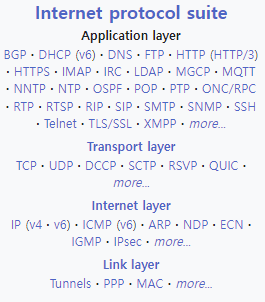
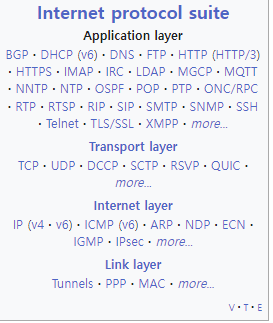
GITBOOK-21: change request with no subject merged in GitBook

diff --git a/week5/dependency-injection.md b/week5/dependency-injection.md
@@ -11,8 +11,150 @@
 
 ### 강의 정리
 
+### Factory 패턴
 
+<figure><img src="../.gitbook/assets/image.png" alt=""><figcaption></figcaption></figure>
+
+객체 지향 프로그래밍에서 팩토리는 다른 객체를 생성하기 위한 객체이다.&#x20;
+
+왜 사용하는걸까?&#x20;
+
+객체 생성 코드를 분리하여 결합도를 낮추어 유지보수하기 편리하도록 코드를 건드리는 횟수를 최소화 하기 위한 패턴이다.&#x20;
+
+결합도가 왜 낮아질까?
+
+인터페이스를 통해 구현한 객체들은 같은 인터페이스에 의존되기 때문에 코드에 유연함이 생긴다.&#x20;
+
+팩토리 패턴을 통해 변경이 일어나는 부분을 캡슐화 한다면 공통된 부분은 코드 중복을 줄이고 다형성의 이점을 가져갈 수 있다.
+
+
+
+### Spring AOP(Asepect Oriented Programming)
+
+관점 지향 프로그래밍 AOP는 어떤 로직을 기준으로 핵심적인 관점, 부가적인 관점으로 나누어 각각 모듈화 하겠다는 것이다.
+
+객체지향 프로그래밍 방식에서 실제 핵심 로직 수행 메서드를 아무리 설계를 잘해도 분리된 모듈로 작성하기 힘든 부분이 발생하는데 예를 들면 로깅,인증, 트랜잭션과 같은 공통적이고 중복되는 내용이 많다. 이는 핵심 로직을 파악하기 어렵게하고 코드 가독성을 떨어뜨리기 때문에 AOP라는 개념이 탄생하게 되었다.
+
+
+
+\| AOP 주요 개념
+
+* Aspect : 위에서 설명한 흩어진 관심사를 모듈화 한 것. 주로 부가기능을 모듈화함.
+* Target : Aspect를 적용하는 곳 (클래스, 메서드 .. )
+* Advice : 실질적으로 어떤 일을 해야할 지에 대한 것, 실질적인 부가기능을 담은 구현체
+* JointPoint : Advice가 적용될 위치, 끼어들 수 있는 지점. 메서드 진입 지점, 생성자 호출 시점, 필드에서 값을 꺼내올 때 등 다양한 시점에 적용가능
+* PointCut : JointPoint의 상세한 스펙을 정의한 것. 'A란 메서드의 진입 시점에 호출할 것'과 같이 더욱 구체적으로 Advice가 실행될 지점을 정할 수 있음
+
+&#x20;
+
+\| 스프링 AOP 특징
+
+* 프록시 패턴 기반의 AOP 구현체, 프록시 객체를 쓰는 이유는 접근 제어 및 부가기능을 추가하기 위해서임
+* 스프링 빈에만 AOP를 적용 가능
+* 모든 AOP 기능을 제공하는 것이 아닌 스프링 IoC와 연동하여 엔터프라이즈 애플리케이션에서 가장 흔한 문제(중복코드, 프록시 클래스 작성의 번거로움, 객체들 간 관계 복잡도 증가 ...)에 대한 해결책을 지원하는 것이 목적
+
+### 싱글턴 패턴
+
+## Singleton 정의 <a href="#singleton" id="singleton"></a>
+
+* 특정 클래스에서 만들 수 있는 인스턴스 수를 하나로 제한
+*   조건
+
+    * 프로그램 실행 중에 최대 하나만 있어야 함
+      * Setting, file system
+    * 전역적 접근 지점을 제공해야 함
+
+
+* 특징
+  * 객체이기 때문에 힙에 싱글톤 객체가 저장된다. 따라서 쓰레드간 공유가 가능하다
+
+## Singleton의 비공식적 정의 <a href="#singleton" id="singleton"></a>
+
+* static 사용에 대한 비판을 해결하는 패턴
+* 즉, OO에서 전역 변수 및 전역 함수를 만드는 법
+
+### Dependency Injection과 IoC
+
+* IoC는 프레임워크의 공통적인 특징으로 프로그래머가 작성한 코드가 라이브러리의 흐름 제어를 받게된 소프트웨어 디자인 패턴이다.&#x20;
+
+제어 역전은 프레임워크를 라이브러리와 다르게 만드는 핵심 부분입니다. 라이브러리는 본질적으로 호출할 수 있는 함수 세트이며 요즘에는 일반적으로 클래스로 구성됩니다. 각 호출은 일부 작업을 수행하고 클라이언트에 제어권을 반환합니다.
+
+원래 코드
+
+```
+public class ServerFacade
+{
+  public Object respondToRequest(Object pRequest)
+  {
+    if(businessLayer.validateRequest(pRequest))
+    {
+      DAO.getData(pRequest);
+      return Aspect.convertData(pRequest);
+    }
+
+    return null;
+  }
+}
+```
+
+제어 반전 코드
+
+```
+public class ServerFacade
+{
+  public Object respondToRequest(Object pRequest, DAO dao)
+  {
+    return dao.getData(pRequest);
+  }
+}
+```
+
+### DI란?
+
+DI는 Dependency Injection으로 어플리케이션 클래스에서 의존성을 제거하는 방법의 일종이다.
+
+내용은 인터페이스에만 의존하고 실제 구현을 위한 정보는   외부에서 주입받아 만든다.
+
+DI에서 dependency를 의존객체라고 보는 것은 적절치 않습니다.대신 코드 레벨에서 제거했지만, 런타임시에 가지게 해주는 의존관계 또는 의존성으로 보는 것이 타당하다는 것입니다.\
+
+
+우선 `의존성`이란 무엇인지부터 간단하게 짚고 넘어가자.
+
+> _의존대상 B가 변하면, 그것이 A에 영향을 미친다._
+>
+> **- 이일민, 토비의 스프링 3.1, 에이콘(2012), p113**
+
+```java
+public class A {
+    private B b = new B();
+}
+```
+
+➡ 생성자, Setter, 인터페이스를 통해 주입할 수 있으며 DI를 통해 객체 간 의존성을 줄여 변경이 덜 취약한 코드를 만들고 모의 객체를 주입하여 단위 테스트를 용이하게 만들 수 있다.
 
 ### 궁금한 점?
 
-1\.
+1. 싱글턴 패턴과 정적클래스의 차이가 무엇인가?
+
+\=> **싱글턴 패턴은 그래도 객체를 생성한다. (확장과 인터페이스 구현이 가능)**
+
+
+
+**싱글턴 패턴은 코드 상에서 의존 관계를 명확하게 보여준다.**
+
+싱글턴 패턴은 상태를 가지고 생성과 파괴시기를 선택할 수 있어 테스트 하는데 문제가 없지만 정적 static class는 mocking이 불가능하거나 구현에 제한이 있다 또한정적 스택에 저장이 되기 때문에 쓰레드 관리가 어렵다.
+
+
+
+```
+   void myMethod(Singleton singleton) {
+   	singleton.methodA();
+  }
+
+  // 또는
+
+  void myMethod() {
+  	Singleton singleton = Singleton.valueOf();
+  	singleton.methodA();
+  }
+```

diff --git a/week4/data-access.md b/week4/data-access.md
@@ -1,67 +1,51 @@
 # Data Access
 
 ### 목차
-- DAO(Data Access Object)
-- List
-- Map
+
+* DAO(Data Access Object)
+* List
+* Map
 
 ### 강의 정리
-DAO (Data Access Object)
-DB의 data에 접근하기 위한 객체이다. DB에 접근하기 위한 로직을 분리하기 위해 사용한다.
+
+DAO (Data Access Object) DB의 data에 접근하기 위한 객체이다. DB에 접근하기 위한 로직을 분리하기 위해 사용한다.
 
 데이터베이스 또는 영속성(Persistence) 매커니즘에 데이터 작업(CRUD)을 추상화 인터페이스로 제공하는 패턴이다.
 
 애플리케이션 호출을 영속성 계층과 분리하여, 데이터 작업 시 데이터베이스 세부 정보가 노출하지 않는다.
 
-<br>
-**자바의 컬렉션과 Map**
+\
+\*\*자바의 컬렉션과 Map\*\*
 
-![img_1.png](img_1.png)
+![img\_1.png](img\_1.png)
 
-컬렉션 프레임워크를 사용하는 이유? <br>
-기존에는 많은 데이터를 처리하기 위해 배열을 사용했었지만 크기가 고정되어있고 삽입 및 삭제 시간이 오래 걸린다는 불편한 점들이 많았습니다. <br>
+컬렉션 프레임워크를 사용하는 이유?\
+기존에는 많은 데이터를 처리하기 위해 배열을 사용했었지만 크기가 고정되어있고 삽입 및 삭제 시간이 오래 걸린다는 불편한 점들이 많았습니다.\
+
 
 따라서 이를 보완하기 위해 자바에서 동적 배열 개념인 컬렉션 프레임워크를 제공하였는데 종류는 대표적으로 List, Map, Set이 있습니다. 그리하여 자바 컬렉션 프레임워크로 인해 자료의 삽입, 삭제, 검색 등등이 용이해지고 어떠한 자료형이라도 담을 수 있으며 크기가 자유롭게 늘어난다는 강점을 가져 많은 사람들에게 사용되고 있습니다.
 
-**List** <br>
-순서가 있고 중복을 허용합니다.
-인덱스로 원소에 접근이 가능합니다.
-크기가 가변적입니다.
+**List**\
+순서가 있고 중복을 허용합니다. 인덱스로 원소에 접근이 가능합니다. 크기가 가변적입니다.
 
-List의 종류와 특징
-**LinkedList** <br>
+List의 종류와 특징 **LinkedList**\
 
-양방향 포인터 구조로 데이터 삽입, 삭제가 빠르다.
-ArrayList보다 검색이 느리다.
 
-**ArrayList** <br>
-단반향 포인터 구조로 데이터 순차적 접근에 강점을 가진다.
-배열을 기반으로 데이터를 저장한다.
-데이터 삽입, 삭제가 느리다.
-데이터 검색이 빠르다.
+양방향 포인터 구조로 데이터 삽입, 삭제가 빠르다. ArrayList보다 검색이 느리다.
 
-**Map** <br>
-Key와 Value의 한쌍으로 이루어지는 데이터의 집합.
-Key에 대한 중복이 없으며 순서를 보장하지 않습니다.
-뛰어난 검색 속도를 가집니다.
-인덱스가 따로 존재하지 않기 때문에 iterator를 사용합니다.
+**ArrayList**\
+단반향 포인터 구조로 데이터 순차적 접근에 강점을 가진다. 배열을 기반으로 데이터를 저장한다. 데이터 삽입, 삭제가 느리다. 데이터 검색이 빠르다.
 
-**Map의 종류와 특징** <br>
+**Map**\
+Key와 Value의 한쌍으로 이루어지는 데이터의 집합. Key에 대한 중복이 없으며 순서를 보장하지 않습니다. 뛰어난 검색 속도를 가집니다. 인덱스가 따로 존재하지 않기 때문에 iterator를 사용합니다.
 
-**HashMap**
-Key에 대한 중복이 없으며 순서를 보장하지 않는다.
-Key와 Value 값으로 NULL을 허용한다.
-동기화가 보장되지 않는다.
-검색에 가장 뛰어난 성능을 가진다.
+**Map의 종류와 특징**\
 
-**HashTable**
-동기화가 보장되어 병렬 프로그래밍이 가능하고 HashMap 보다 처리속도가 느리다.
-Key와 Value 값으로 NULL을 허용하지 않는다.
 
-**LinkedHashMap**
-입력된 순서를 보장한다.
+**HashMap** Key에 대한 중복이 없으며 순서를 보장하지 않는다. Key와 Value 값으로 NULL을 허용한다. 동기화가 보장되지 않는다. 검색에 가장 뛰어난 성능을 가진다.
 
-**TreeMap**
-이진 탐색 트리(Red-Black Tree)를 기반으로 키와 값을 저장한다.
-Key 값을 기준으로 오름차순 정렬되고 빠른 검색이 가능하다.
-저장 시 정렬을 하기 때문에 시간이 다소 오래 걸린다.
+**HashTable** 동기화가 보장되어 병렬 프로그래밍이 가능하고 HashMap 보다 처리속도가 느리다. Key와 Value 값으로 NULL을 허용하지 않는다.
+
+**LinkedHashMap** 입력된 순서를 보장한다.
+
+**TreeMap** 이진 탐색 트리(Red-Black Tree)를 기반으로 키와 값을 저장한다. Key 값을 기준으로 오름차순 정렬되고 빠른 검색이 가능하다. 저장 시 정렬을 하기 때문에 시간이 다소 오래 걸린다.

diff --git a/week4/domain-model.md b/week4/domain-model.md
@@ -2,45 +2,34 @@
 
 ### 목차
 
-- Domain Model 이란
-- Repository
-- VO(Value Object)
+* Domain Model 이란
+* Repository
+* VO(Value Object)
 
 ### 강의 정리
 
-**도메인** <br>
-제공하려는 시스템을 소프트웨어로 해결하고자 하는 문제 영역을 말한다. <Br>
+**도메인**\
+제공하려는 시스템을 소프트웨어로 해결하고자 하는 문제 영역을 말한다.\
 
-ex. 온라인 서점의 경우 상품조회, 구매, 결제, 배송 추적 등
-도메인은 다시 여러 하위 도메인으로 나눌 수 있으며, 이러한 도메인 구성은 성향에 따라 다르게 나눌 수 있다. <br>
 
-**도메인 모델**
-특정 도메인을 다양한 표현 방식(객체 모델링, 상태 다이어그램 등)을이용해 개념적으로 표현한 것을 말한다.
+ex. 온라인 서점의 경우 상품조회, 구매, 결제, 배송 추적 등 도메인은 다시 여러 하위 도메인으로 나눌 수 있으며, 이러한 도메인 구성은 성향에 따라 다르게 나눌 수 있다.\
 
-**Domain Model 개념**
-특정 도메인을 다양한 표현 방식(객체 모델링, 상태 다이어그램 등)을 이용해 개념적으로 표현한 것을 말한다.
-행위(behavior)를 중요시 하기 때문에 Unit Testing 하기에 적합하다.
 
-**N-tier Architecture에서의 Domain Model**
-N-tier Architecture 에는 도메인 계층(또는 모델 계층)이  존재한다.
-도메인 계층은 업무 상황을 반영하는 상태를 제어하고, 상태 저장과 관련된 기술적인 세부 사항은 인프라스트럭처에 위임하며, 업무용 소프트웨어의 핵심이라고 볼 수 있는 계층이다.
+**도메인 모델** 특정 도메인을 다양한 표현 방식(객체 모델링, 상태 다이어그램 등)을이용해 개념적으로 표현한 것을 말한다.
+
+**Domain Model 개념** 특정 도메인을 다양한 표현 방식(객체 모델링, 상태 다이어그램 등)을 이용해 개념적으로 표현한 것을 말한다. 행위(behavior)를 중요시 하기 때문에 Unit Testing 하기에 적합하다.
+
+**N-tier Architecture에서의 Domain Model** N-tier Architecture 에는 도메인 계층(또는 모델 계층)이 존재한다. 도메인 계층은 업무 상황을 반영하는 상태를 제어하고, 상태 저장과 관련된 기술적인 세부 사항은 인프라스트럭처에 위임하며, 업무용 소프트웨어의 핵심이라고 볼 수 있는 계층이다.
 
 **도메인 모델은 아키텍처 상의 도메인 계층을 객체 지향 기법으로 구현하는 패턴을 말한다.**
 
-
-**Repository**
-DAO가 데이터를 관리한다면 Repository는 도메인 모델을 관리한다. DAO는 DB 중심이고 Repository는 Domain Model 중심이라고 볼 수 있다.
-Repository는 도메인과 데이터 매핑 사이를 중개하고, 데이터 저장소에 접근하는 데 필요한 로직을 캡슐화하여 인터페이스로 제공한다.
+**Repository** DAO가 데이터를 관리한다면 Repository는 도메인 모델을 관리한다. DAO는 DB 중심이고 Repository는 Domain Model 중심이라고 볼 수 있다. Repository는 도메인과 데이터 매핑 사이를 중개하고, 데이터 저장소에 접근하는 데 필요한 로직을 캡슐화하여 인터페이스로 제공한다.
 
 **VO(Value Object)**
 
-**VO 개념**
-도메인에서 한 개 또는 그 이상의 속성들을 묶어서 특정 값을 나타내는 객체를 의미한다.
-ex. 나이, 금액, 기간 등 (객체가 아닌 값 객체 ex : Integer, Money, 불변) <br>
+**VO 개념** 도메인에서 한 개 또는 그 이상의 속성들을 묶어서 특정 값을 나타내는 객체를 의미한다. ex. 나이, 금액, 기간 등 (객체가 아닌 값 객체 ex : Integer, Money, 불변)\
 
-**VO 특징**
-VO는 불변(Immutable) 해야 한다. (setter 사용 불가)
-불변성을 갖기 때문에 신뢰성이 높다.
+
+**VO 특징** VO는 불변(Immutable) 해야 한다. (setter 사용 불가) 불변성을 갖기 때문에 신뢰성이 높다.
 
 ### 궁금한 점?
-

diff --git a/week1/01.-http.md b/week1/01.-http.md
@@ -22,7 +22,7 @@
 
 * Internet Protocol suite
 
-![](<../.gitbook/assets/image (1).png>)
+![](<../.gitbook/assets/image (1) (1).png>)
 
 ***
 
